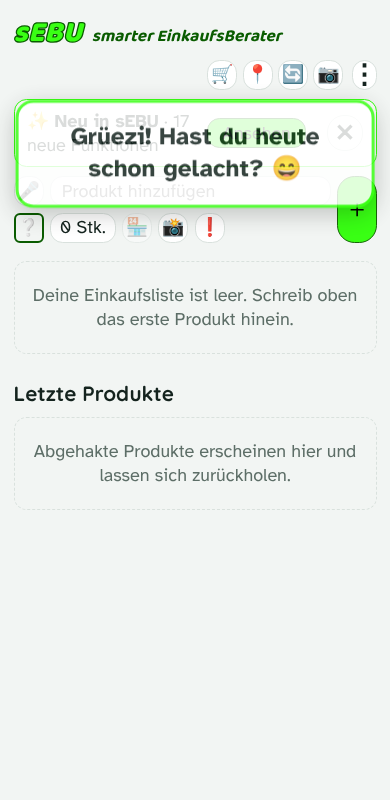
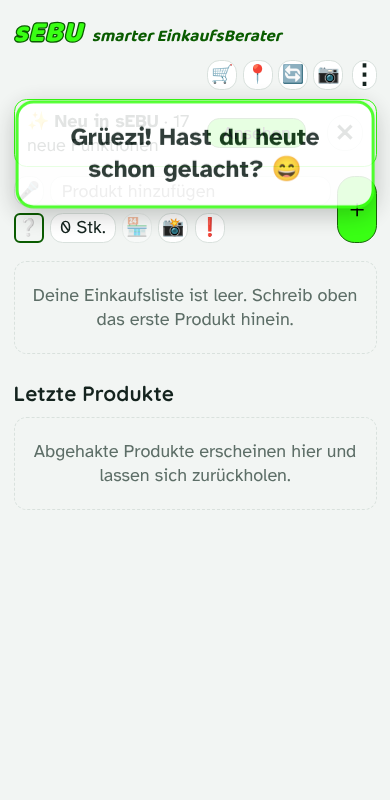
Dunkles Design: Rahmen noch heller
Claude-Session: https://claude.ai/code/session_01D8YzSZq49mBYGwQ71jG7sa

Changed region(s): [[0.0615, 0.125, 0.9538, 0.2188], [0.0615, 0.25, 0.8615, 0.2812], [0.6462, 0.1875, 0.6769, 0.2188]]

diff --git a/index.html b/index.html
@@ -16,8 +16,8 @@
 <link rel="stylesheet" href="https://fonts.googleapis.com/css2?family=Atkinson+Hyperlegible:wght@400;700&family=Quicksand:wght@600;700&family=Baloo+2:wght@700;800&display=swap">
 <style>
 :root{--bg:#f2f5f3;--card:#fff;--ink:#14231e;--mute:#5d6e67;--line:#d9e1dd;--red:#c8453b;--yel:#c99a12;--grn:#2e9e57;--acc:#39FF14;--accd:#0a5c00;--onacc:#fff;--fs:18px;--rh:calc(var(--fs)*1.67);--lg:#bff0cc;--dg:#0a5c00}
-@media (prefers-color-scheme:dark){:root:not([data-theme="light"]){--bg:#0f1815;--card:#1a2622;--ink:#e8f0ec;--mute:#93a59d;--line:#55866a;--red:#e5766d;--yel:#e3b93f;--grn:#5dc783}}
-:root[data-theme="dark"]{--bg:#0f1815;--card:#1a2622;--ink:#e8f0ec;--mute:#93a59d;--line:#55866a;--red:#e5766d;--yel:#e3b93f;--grn:#5dc783}
+@media (prefers-color-scheme:dark){:root:not([data-theme="light"]){--bg:#0f1815;--card:#1a2622;--ink:#e8f0ec;--mute:#93a59d;--line:#6fae86;--red:#e5766d;--yel:#e3b93f;--grn:#5dc783}}
+:root[data-theme="dark"]{--bg:#0f1815;--card:#1a2622;--ink:#e8f0ec;--mute:#93a59d;--line:#6fae86;--red:#e5766d;--yel:#e3b93f;--grn:#5dc783}
 *,*::before,*::after{box-sizing:border-box}
 html,body{margin:0;min-height:100%;background:var(--bg);color:var(--ink);font:400 var(--fs)/1.35 "Atkinson Hyperlegible",system-ui,sans-serif;-webkit-text-size-adjust:100%}
 body{padding-top:env(safe-area-inset-top,0px)}
@@ -95,7 +95,7 @@ html.addwrap .add{display:grid;grid-template-columns:repeat(var(--n),auto) 1fr a
 .hrow{display:flex;justify-content:space-between;align-items:center;gap:.5em;margin:-.2em 0 .5em;flex-wrap:nowrap}.hrow>span{white-space:nowrap;flex:1 1 auto}.topbar.up{flex:0 0 auto;margin:0!important;overflow:visible;align-items:center}
 .btn.sq.dealxb{width:calc(var(--rh)*1.2);height:calc(var(--rh)*1.2);font-size:1.35em;font-weight:700;flex:0 0 auto;margin-left:.4em}
 .btn.sq#hamb{overflow:hidden;min-width:0;width:calc(var(--rh)*.8);font-size:1.5em;font-weight:900;line-height:1;padding:0}
-@media (prefers-color-scheme:dark){:root:not([data-theme=light]) .ic{border-color:color-mix(in srgb,var(--acc) 80%,var(--bg))}}:root[data-theme=dark] .ic{border-color:color-mix(in srgb,var(--acc) 80%,var(--bg))}
+@media (prefers-color-scheme:dark){:root:not([data-theme=light]) .ic{border-color:color-mix(in srgb,var(--acc) 92%,var(--bg))}}:root[data-theme=dark] .ic{border-color:color-mix(in srgb,var(--acc) 92%,var(--bg))}
 .ic.ph{padding:0;overflow:hidden}.ic.ph img{width:100%;height:100%;object-fit:cover;display:block}
 .wheels.hz{display:block;margin:.3em 0}.wheels.hz .wl{font-size:.85em;color:var(--mute);margin:.3em 0 .1em}
 .wheels.hz .wrow{position:relative;--ww:calc(var(--rh)*1.9)}.wheels.hz .wrow.wu{--ww:calc(var(--rh)*2.8)}

diff --git a/docs/ENTSCHEIDUNGEN.md b/docs/ENTSCHEIDUNGEN.md
@@ -807,3 +807,4 @@ Stand heute: 1 gebaut; 2 teilweise (Aktionen, aber ohne echte Datenquelle); 3 te
 - 25.11.: Letzte Produkte: Knopf «Zurückholen» ersetzt durch runden ↩-Knopf (Erklärung beim Gedrückthalten).
 - 26.11.: 🛒 und 📍 in der Kopfzeile schmal (quadratisch wie 🔄, ausser mit «Knöpfe mit Text»), Listen-Knopf etwas kompakter – so passen die Knöpfe wieder auf die Zeile von ⋮.
 - 26.11.: Dunkles Design: Rahmen von Knöpfen und Produkten heller grün (--line #55866a statt #3a4c46), Symbol-Rahmen 80 % Neon statt 62 %.
+- 26.11.: Rahmen noch heller: --line #6fae86, Symbol-Rahmen 92 % Neon.
